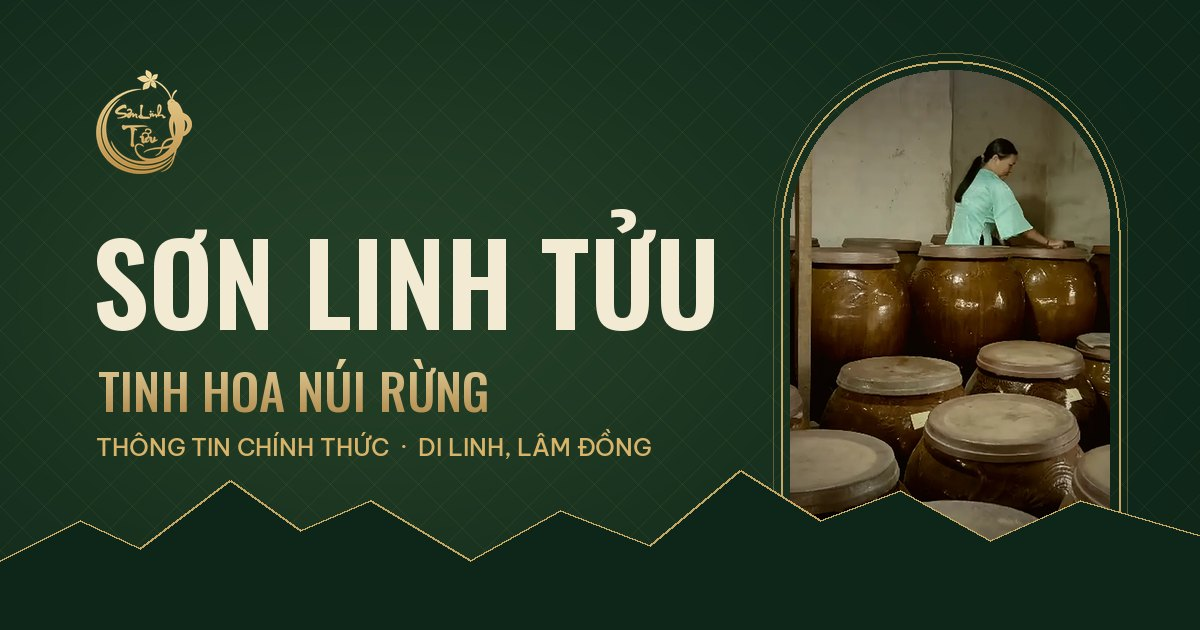
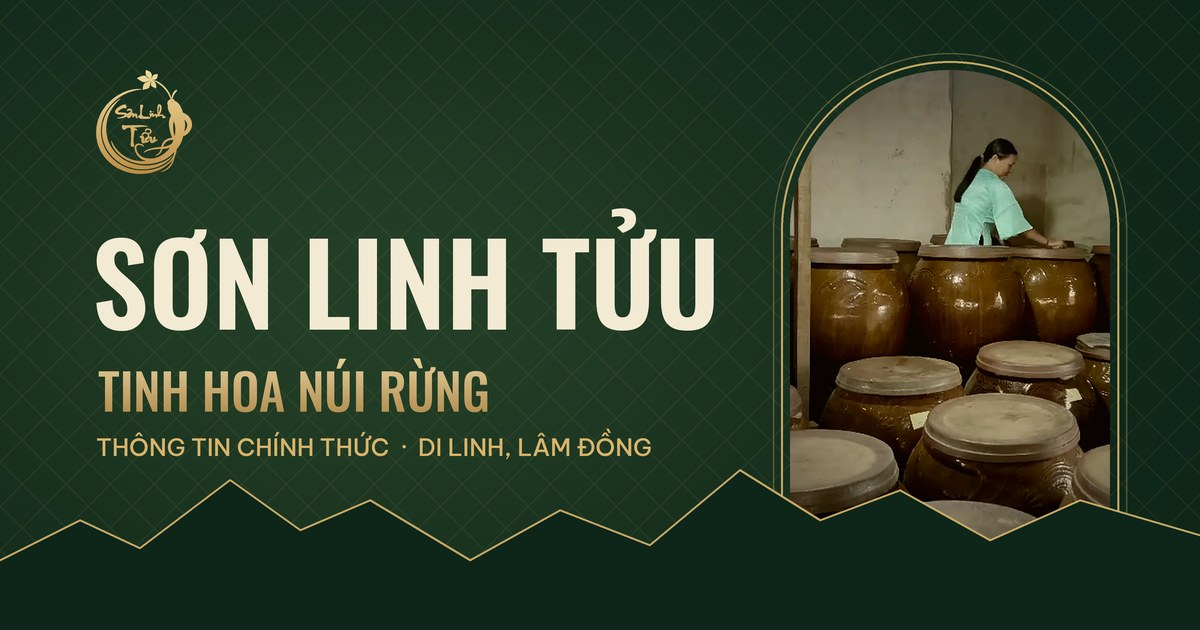
Bản 26: ảnh chia sẻ link vẽ lại cho viền vòm và đường núi liền, mịn
Vẽ ở cỡ gấp 3 rồi thu nhỏ (bản cũ vẽ thẳng bị răng cưa, trông như nét đứt). Thêm ?v=4 vào đường dẫn ảnh để Zalo/Facebook lấy ảnh mới.

diff --git a/index.html b/index.html
@@ -15,7 +15,7 @@
 <meta property="og:title" content="Sơn Linh Tửu — Thông tin chính thức">
 <meta property="og:description" content="Rượu nấu thủ công, chưng cất bếp củi, ủ chum sành tại Di Linh, Lâm Đồng.">
 <meta property="og:url" content="https://nghtloc14.github.io/sonlinhtuu/">
-<meta property="og:image" content="https://nghtloc14.github.io/sonlinhtuu/assets/img/og.jpg">
+<meta property="og:image" content="https://nghtloc14.github.io/sonlinhtuu/assets/img/og.jpg?v=4">
 <meta property="og:image:width" content="1200">
 <meta property="og:image:height" content="630">
 <link rel="icon" type="image/png" sizes="32x32" href="assets/img/favicon-32.png">
@@ -29,7 +29,7 @@
 <link rel="stylesheet" href="assets/css/cho.css?v=5">
 <!-- ĐẾM LƯỢT XEM: dán mã Cloudflare Web Analytics vào đây khi có tài khoản. /qr = lượt quét tem chai, / = lượt vào từ link. -->
 <script type="application/ld+json">
-{"@context":"https://schema.org","@type":"LocalBusiness","name":"Sơn Linh Tửu","legalName":"Hộ kinh doanh Nguyễn Chí Sơn","slogan":"Tinh hoa núi rừng","telephone":"+84978404779","url":"https://nghtloc14.github.io/sonlinhtuu/","image":"https://nghtloc14.github.io/sonlinhtuu/assets/img/og.jpg","address":{"@type":"PostalAddress","streetAddress":"Thôn Gung Ré","addressLocality":"xã Di Linh","addressRegion":"Lâm Đồng","addressCountry":"VN"},"sameAs":["https://www.facebook.com/vinh.son.908"]}
+{"@context":"https://schema.org","@type":"LocalBusiness","name":"Sơn Linh Tửu","legalName":"Hộ kinh doanh Nguyễn Chí Sơn","slogan":"Tinh hoa núi rừng","telephone":"+84978404779","url":"https://nghtloc14.github.io/sonlinhtuu/","image":"https://nghtloc14.github.io/sonlinhtuu/assets/img/og.jpg?v=4","address":{"@type":"PostalAddress","streetAddress":"Thôn Gung Ré","addressLocality":"xã Di Linh","addressRegion":"Lâm Đồng","addressCountry":"VN"},"sameAs":["https://www.facebook.com/vinh.son.908"]}
 </script>
 </head>
 <body>

diff --git a/qr.html b/qr.html
@@ -16,7 +16,7 @@
 <meta property="og:title" content="Sơn Linh Tửu — Thông tin chính thức">
 <meta property="og:description" content="Rượu nấu thủ công, chưng cất bếp củi, ủ chum sành tại Di Linh, Lâm Đồng.">
 <meta property="og:url" content="https://nghtloc14.github.io/sonlinhtuu/">
-<meta property="og:image" content="https://nghtloc14.github.io/sonlinhtuu/assets/img/og.jpg">
+<meta property="og:image" content="https://nghtloc14.github.io/sonlinhtuu/assets/img/og.jpg?v=4">
 <meta property="og:image:width" content="1200">
 <meta property="og:image:height" content="630">
 <link rel="icon" type="image/png" sizes="32x32" href="assets/img/favicon-32.png">
@@ -30,7 +30,7 @@
 <link rel="stylesheet" href="assets/css/cho.css?v=5">
 <!-- ĐẾM LƯỢT XEM: dán mã Cloudflare Web Analytics vào đây khi có tài khoản. /qr = lượt quét tem chai, / = lượt vào từ link. -->
 <script type="application/ld+json">
-{"@context":"https://schema.org","@type":"LocalBusiness","name":"Sơn Linh Tửu","legalName":"Hộ kinh doanh Nguyễn Chí Sơn","slogan":"Tinh hoa núi rừng","telephone":"+84978404779","url":"https://nghtloc14.github.io/sonlinhtuu/","image":"https://nghtloc14.github.io/sonlinhtuu/assets/img/og.jpg","address":{"@type":"PostalAddress","streetAddress":"Thôn Gung Ré","addressLocality":"xã Di Linh","addressRegion":"Lâm Đồng","addressCountry":"VN"},"sameAs":["https://www.facebook.com/vinh.son.908"]}
+{"@context":"https://schema.org","@type":"LocalBusiness","name":"Sơn Linh Tửu","legalName":"Hộ kinh doanh Nguyễn Chí Sơn","slogan":"Tinh hoa núi rừng","telephone":"+84978404779","url":"https://nghtloc14.github.io/sonlinhtuu/","image":"https://nghtloc14.github.io/sonlinhtuu/assets/img/og.jpg?v=4","address":{"@type":"PostalAddress","streetAddress":"Thôn Gung Ré","addressLocality":"xã Di Linh","addressRegion":"Lâm Đồng","addressCountry":"VN"},"sameAs":["https://www.facebook.com/vinh.son.908"]}
 </script>
 </head>
 <body>
